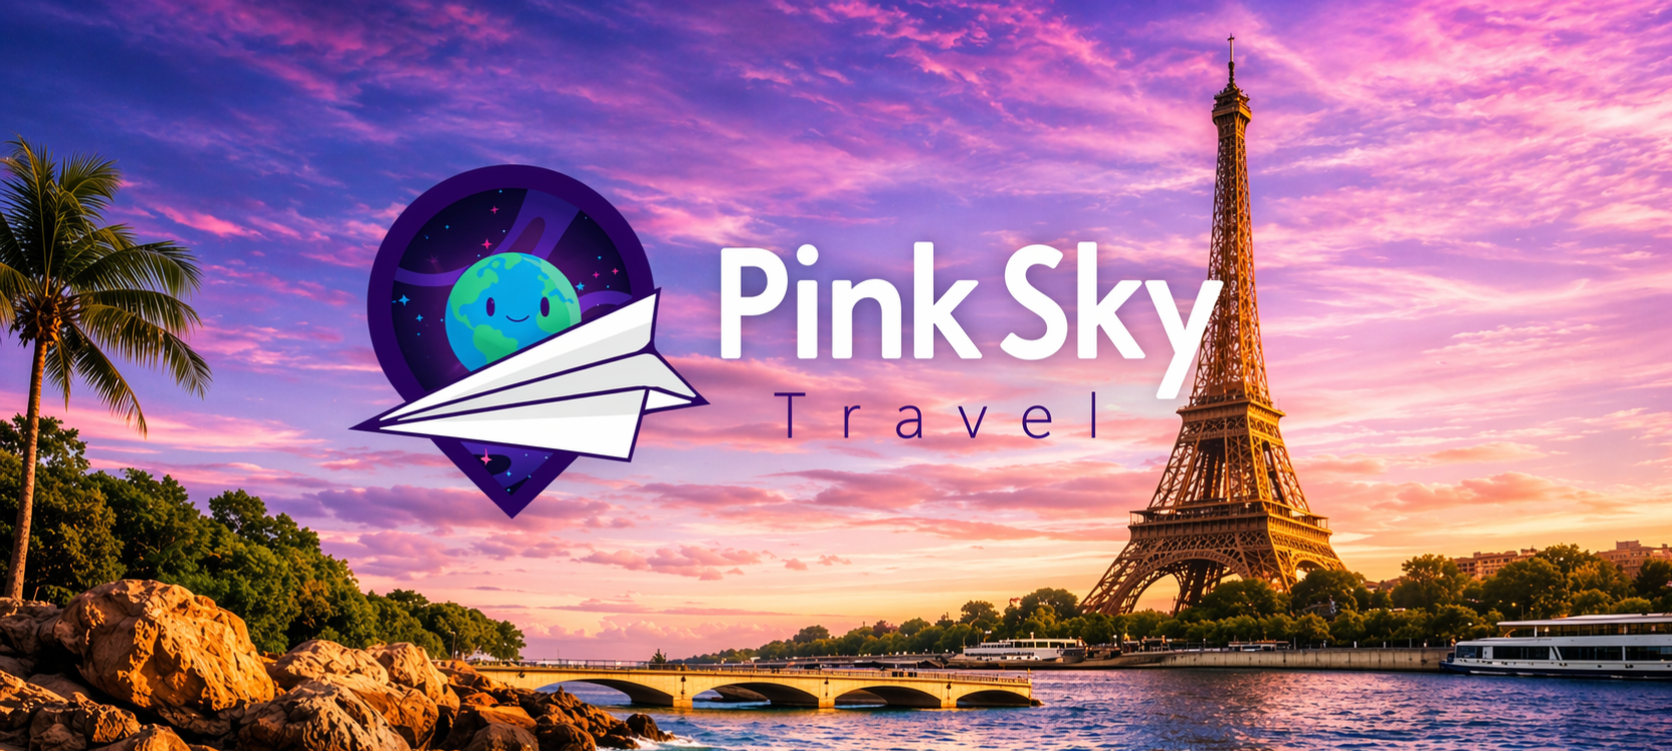
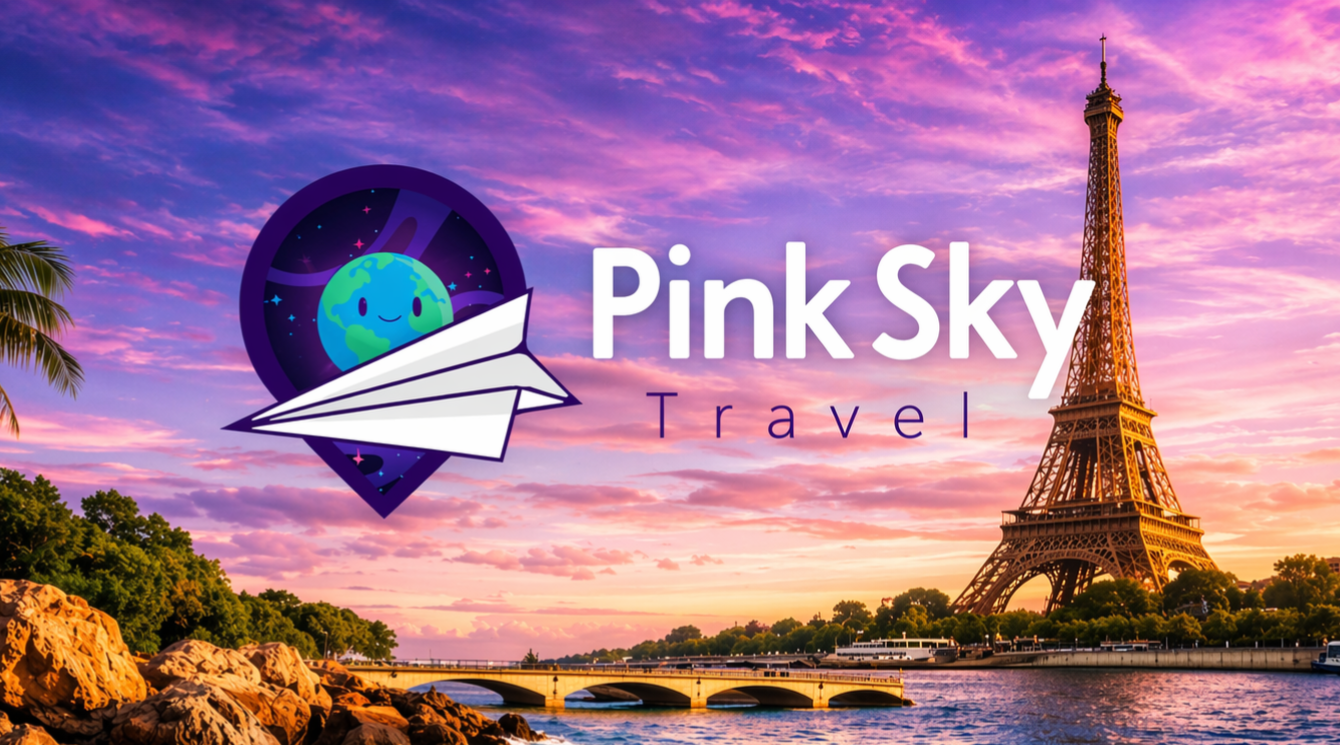
termino pagina en cabecera

diff --git a/styles.css b/styles.css
@@ -5,14 +5,13 @@
 }
 
 .hero {
-    
-    background-attachment: scroll; /* evita bugs raros en zoom */
-    min-height: 100vh; /* 👈 en vez de height fijo */
+    background-image: url("images/cabecera.png");
+    background-size: cover;        /* 👈 CLAVE */
+    background-position: center;   /* 👈 CLAVE */
+    background-repeat: no-repeat;
 
-
-
+    min-height: 100vh;
     position: relative;
-    z-index: 2;
 }
 
 .navbar {
@@ -502,3 +501,4 @@ footer {
   }
 
 }
+
